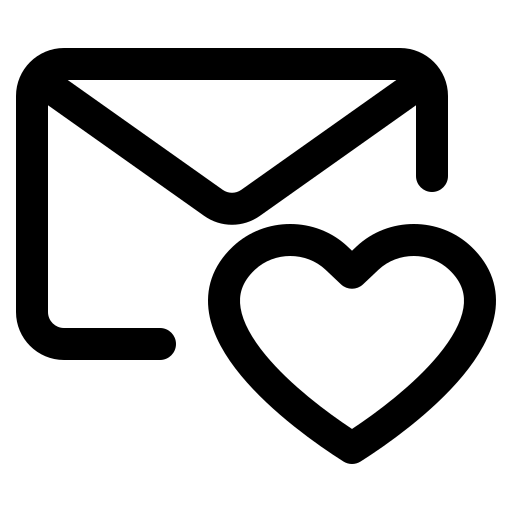
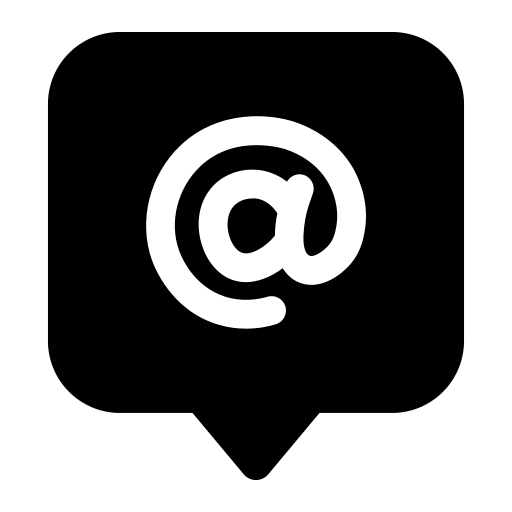
v19

diff --git a/styles.css b/styles.css
@@ -51,8 +51,11 @@ h2, h3, .section-title, .event-title {
     left: 0;
     height: 100vh;
     width: 80px;
-    background: rgba(0, 0, 0, 0.9);
-    backdrop-filter: blur(10px);
+    background: rgba(255, 255, 255, 0.1);
+    backdrop-filter: blur(20px) saturate(180%);
+    -webkit-backdrop-filter: blur(20px) saturate(180%);
+    border-right: 1px solid rgba(255, 255, 255, 0.2);
+    box-shadow: 0 8px 32px 0 rgba(0, 0, 0, 0.37);
     z-index: 1000;
     padding: 3rem 0;
     transition: width 0.3s ease;
@@ -61,6 +64,7 @@ h2, h3, .section-title, .event-title {
 
 .navbar:hover {
     width: 250px;
+    background: rgba(255, 255, 255, 0.15);
 }
 
 .nav-container {
